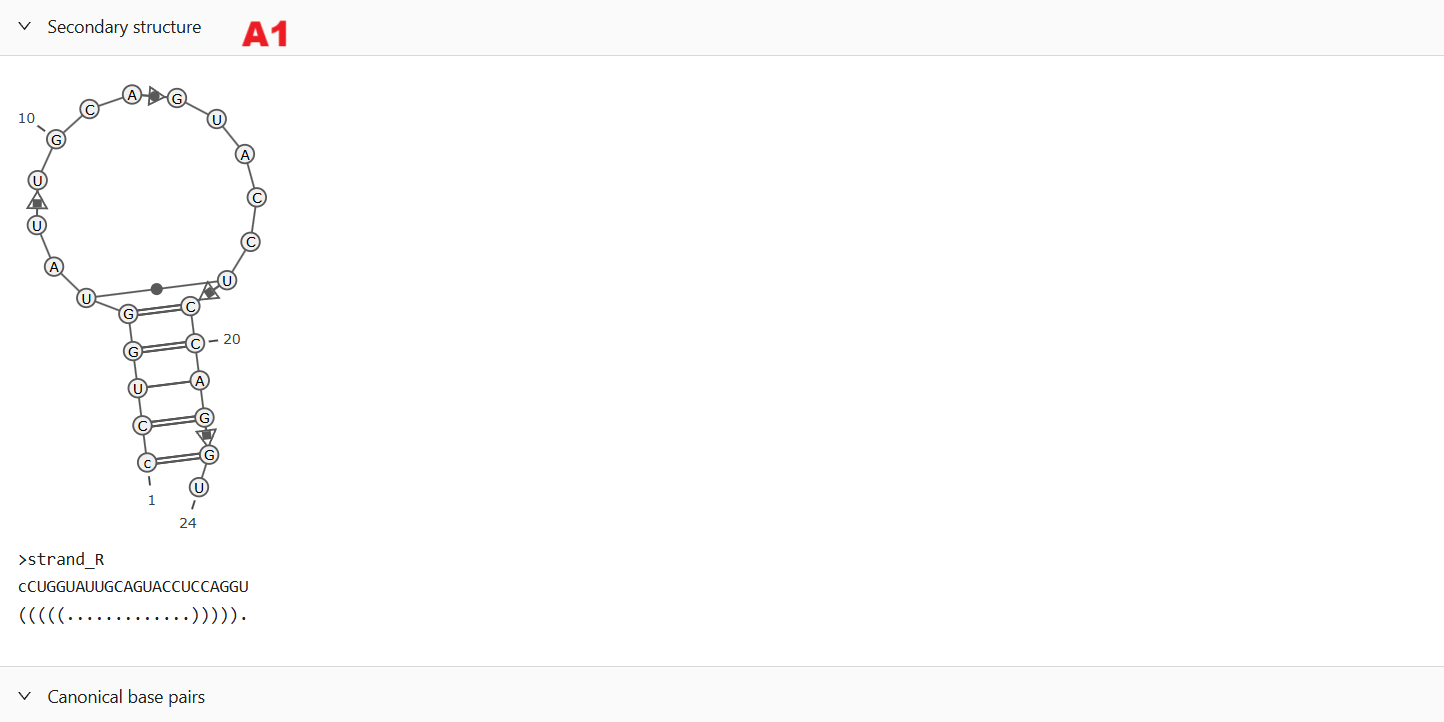
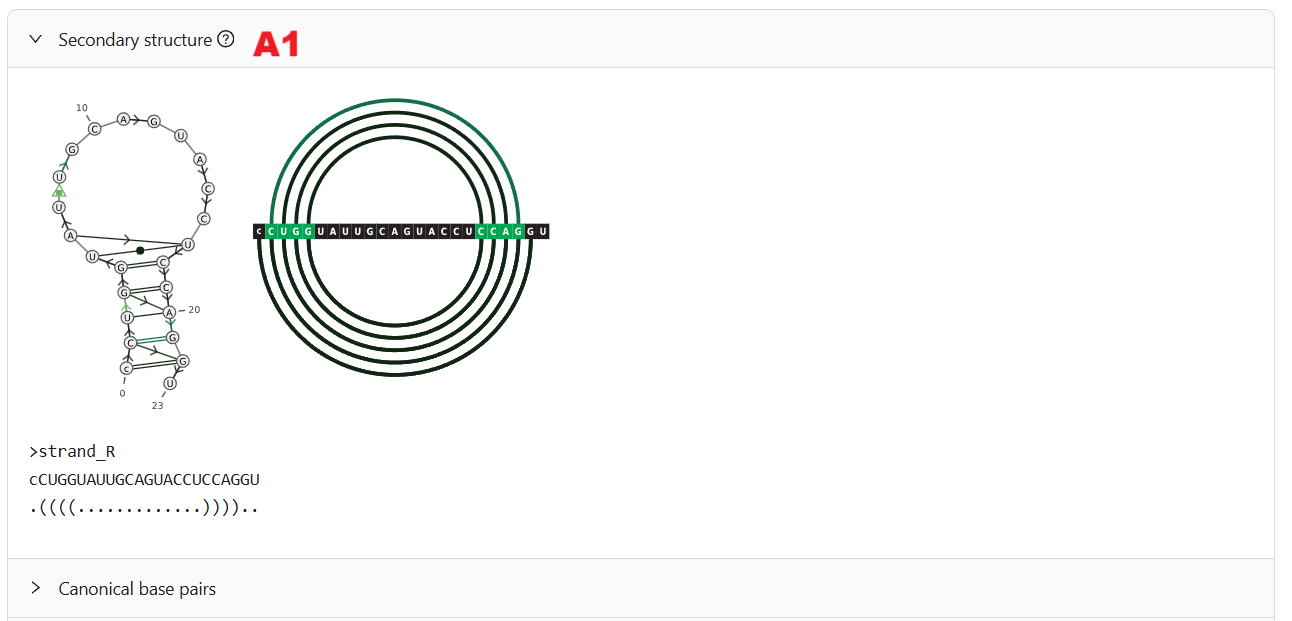
help updated
updated the help to be up to date with whats on the main page right now

diff --git a/my-app/src/Help.js b/my-app/src/Help.js
@@ -19,6 +19,7 @@ import A2 from "./assets/a2.png";
 import A3 from "./assets/a3.png";
 import A4 from "./assets/a4.png";
 import B1 from "./assets/B1.png";
+import B2 from "./assets/B2.png";
 import B3 from "./assets/B3.png";
 import B4 from "./assets/B4.png";
 const { Title, Paragraph, Text, Link } = Typography;
@@ -70,14 +71,23 @@ const Help = () => {
                 }}
               >
                 <Anchor
-                affix={false}
-                items={headings.map((heading) => ({
-                  key: heading.id,
-                  href: `#${heading.id}`,
-                  title: <span style={{ whiteSpace: 'normal', wordBreak: 'break-word' }}>{heading.text}</span>,
-                  style: { paddingLeft: `${(heading.level - 1) * 15}px` },
-                }))}
-              />
+                  affix={false}
+                  items={headings.map((heading) => ({
+                    key: heading.id,
+                    href: `#${heading.id}`,
+                    title: (
+                      <span
+                        style={{
+                          whiteSpace: "normal",
+                          wordBreak: "break-word",
+                        }}
+                      >
+                        {heading.text}
+                      </span>
+                    ),
+                    style: { paddingLeft: `${(heading.level - 1) * 15}px` },
+                  }))}
+                />
               </div>
             </Typography>
           )}
@@ -326,7 +336,7 @@ const Help = () => {
               interactions available: MC-Annotate, BARNABA, RNAview, FR3D,
               BPnet, RNApolis.
             </Paragraph>
-            <CustomTitle level={3}>
+            {/* <CustomTitle level={3}>
               3.1.4 Consensus structure based on
             </CustomTitle>
             <Paragraph>
@@ -339,9 +349,9 @@ const Help = () => {
             <Paragraph>
               It is worth noting that RNAtive considers both Watson-Crick and
               U-G wobble to be canonical base pairs.
-            </Paragraph>
+            </Paragraph> */}
             <CustomTitle level={3}>
-              3.1.5 Conditionally weighted consensus and Confidence level
+              3.1.4 Conditionally weighted consensus and Confidence level
             </CustomTitle>
             {/* <Paragraph>
               In fuzzy mode, every nucleotide interaction within the specified
@@ -369,12 +379,12 @@ const Help = () => {
                 maxWidth: "800px", // Prevents overflow
               }}
             />
-            <CustomTitle level={3}>3.1.6 2D structure viewer</CustomTitle>
+            {/* <CustomTitle level={3}>3.1.6 2D structure viewer</CustomTitle>
             <Paragraph>
               RNAtive will return a 2D visualization of the consensus structure.
               There are four visualizers available: VARNA, RNApuzzler,
               PseudoViewer and R-Chie.
-            </Paragraph>
+            </Paragraph> */}
             {/* <CustomTitle level={2}>
               Getting already submitted results
             </CustomTitle>
@@ -438,12 +448,19 @@ const Help = () => {
               src={results1}
               alt="Results"
               style={{
+                maxWidth: "800px", // Prevents overflow
+              }}
+            />
+            {/* <Image
+              src={results1}
+              alt="Results"
+              style={{
                 width: "auto",
                 maxWidth: "800px", // Prevents overflow
                 height: "auto",
                 display: "inline-block", // Keep display style if needed, or Image default might suffice
               }}
-            />
+            /> */}
             <Paragraph>
               <b>Model ranking by similarity to the consensus</b> (as seen in an
               image above. Note a "download" button in the left bottom corner
@@ -514,6 +531,13 @@ const Help = () => {
             />
             <Image
               src={B1}
+              alt="Results"
+              style={{
+                maxWidth: "800px", // Prevents overflow
+              }}
+            />
+            <Image
+              src={B2}
               alt="Results"
               style={{
                 maxWidth: "800px", // Prevents overflow
